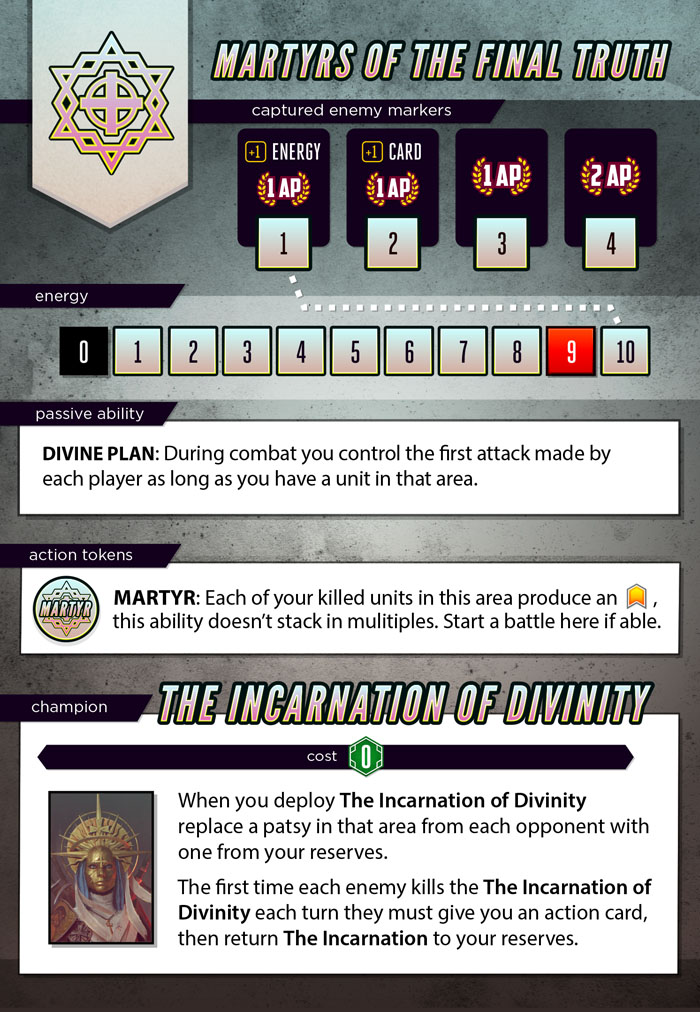
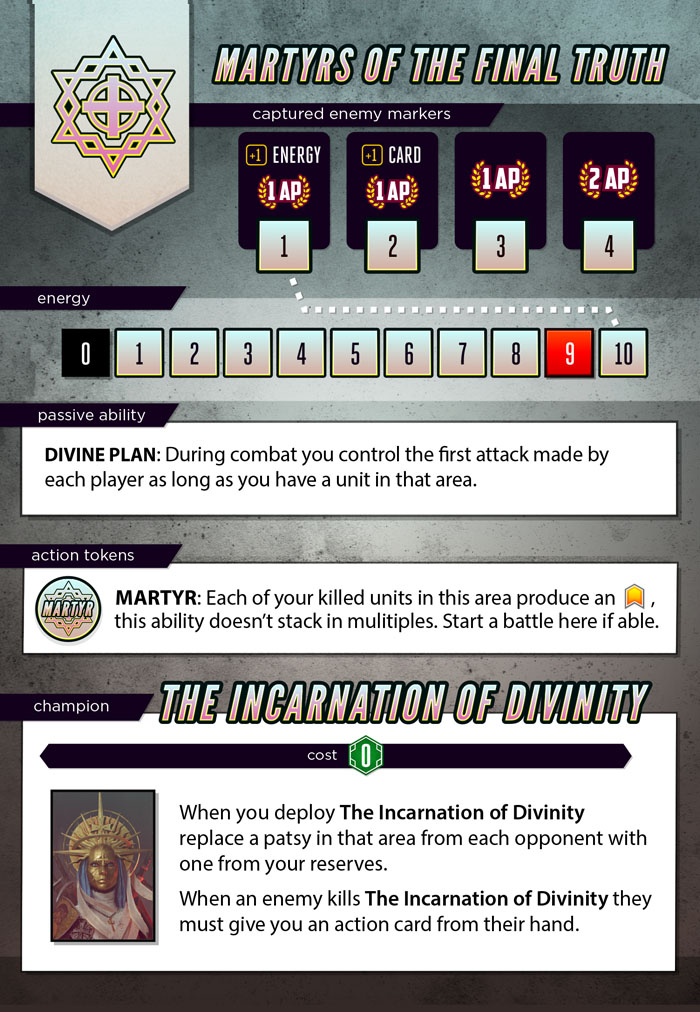
Remove divinity rebord ability

diff --git a/server/classes/factions/Martyrs.js b/server/classes/factions/Martyrs.js
@@ -9,7 +9,7 @@ class Martyrs extends Faction {
 
         // triggers
         this.triggers = {
-            "onCleanUp" : "resetIncarnationKilledBy"
+           // "onCleanUp" : "resetIncarnationKilledBy"
         };
 
         //data
@@ -47,7 +47,7 @@ class Martyrs extends Faction {
                 attack: [],
                 cost: 0,
                 killed: false,
-                killedBy: [],
+                //killedBy: [],
                 selected: false,
                 hitsAssigned: 0,
                 onDeploy: 'incarnationConvert',
@@ -109,21 +109,25 @@ class Martyrs extends Faction {
         let killer = this.game().factions[ event.unit.killed ]; //  who killed the queen
         let incarnation = this.getChampion();
 
+        /*
         // if the same player kills The Incarnation of Divinity twice in a turn it stays dead
         if( incarnation.killedBy.includes( killer.name ) ){
             this.game().message({ faction : killer, message: `Have <span class="highlight">snuffed out</span> the light of divinity for a second time! This time it works` });
             return;
         }
 
+
         // mark this player has killed the incarnation
         incarnation.killedBy.push( killer.name );
 
+        */
+
         // announce thw death and rebirth of the incarnation of divinity, the cycle begins anew!
         this.game().sound( 'holy' );
-        this.game().message({ faction : killer, message: `Have struck down <span class="highlight">The Incarnation of Divinity</span>, but it has been reborn!` });
+        this.game().message({ faction : killer, message: `Have struck down <span class="highlight">The Incarnation of Divinity</span>!` });
 
         // return incarnation to our reserves
-        this.returnUnitToReserves( incarnation );
+        // this.returnUnitToReserves( incarnation );
 
         // steal a card
         await this.resolveIncarnationCardSteal( killer );
